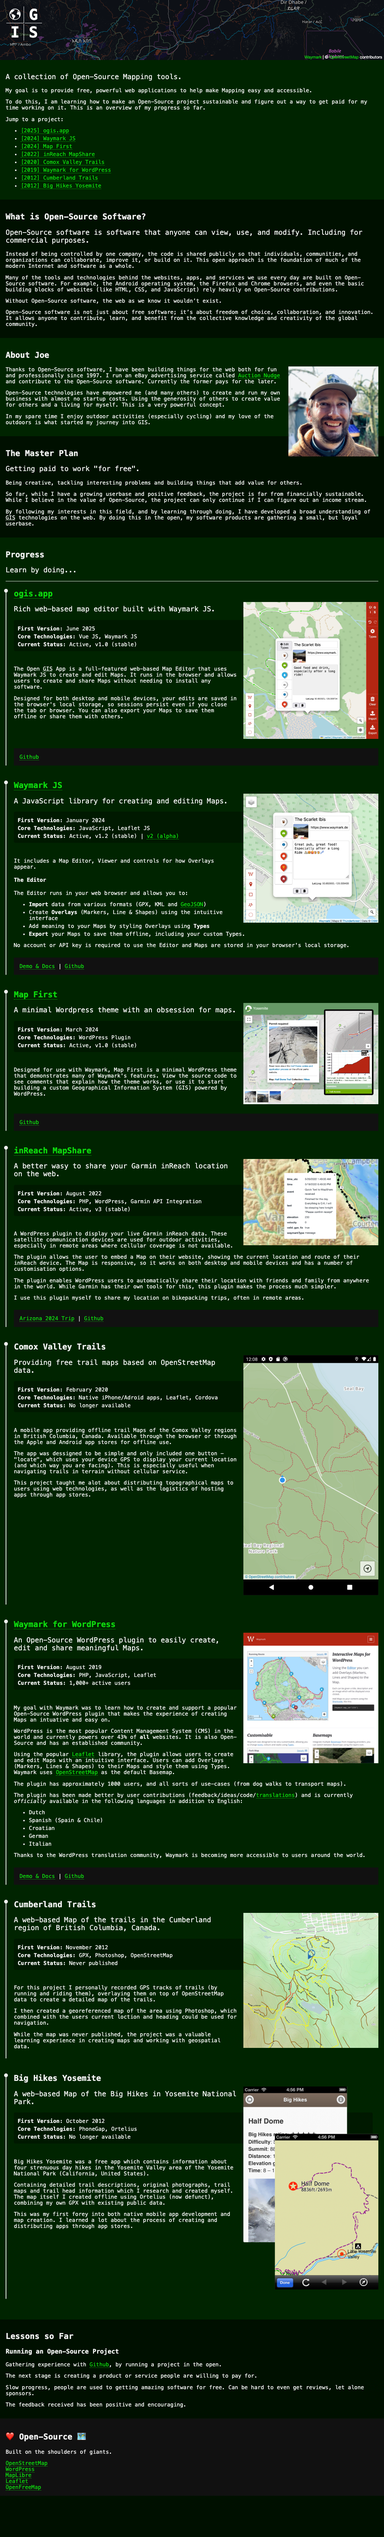
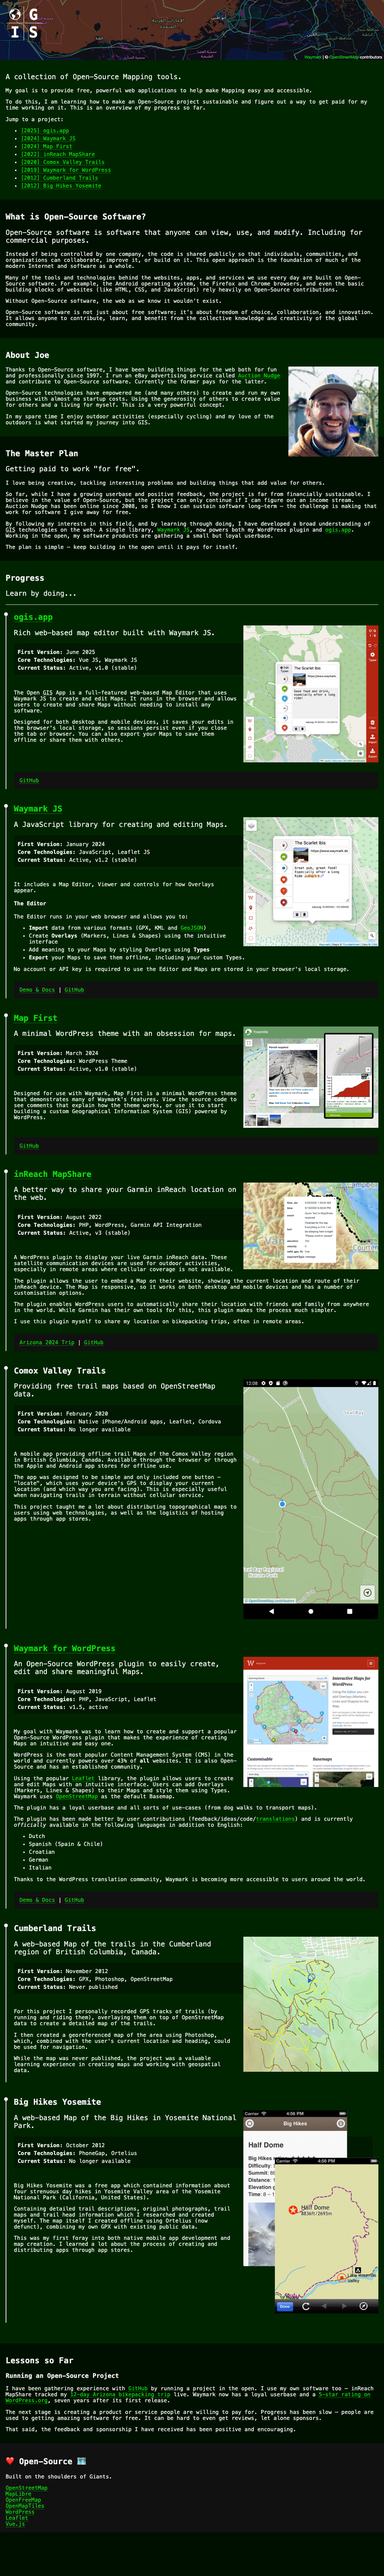
Refresh site copy and footer links
Updates profile copy with current project status and history:
- Expand sustainability discussion with Auction Nudge context
- Highlight Waymark JS as the shared library powering plugin and ogis.app
- Add personal usage anecdote (Arizona bikepacking trip)
- Replace approximate user counts with softer wording
- Restructure funding section for clearer narrative
- Add rel="nofollow" to footer links and include OpenMapTiles and Vue.js

Files changed:
- index.html
- SCREENSHOT.png

diff --git a/index.html b/index.html
@@ -169,15 +169,19 @@
             So far, while I have a growing userbase and positive feedback, the
             project is far from financially sustainable. I believe in the value
             of Open-Source, but the project can only continue if I can figure
-            out an income stream.
+            out an income stream. Auction Nudge has been online since 2008, so I
+            know I can sustain software long-term — the challenge is making that
+            work for software I give away for free.
           </p>
 
           <p>
-            By following my interests in this field, and by learning through
-            doing, I have developed a broad understanding of
+            By following my interests and by learning through doing, I have
+            developed a broad understanding of
             <abbr title="Geographic Information System">GIS</abbr> technologies
-            on the web. Working in the open, my software products are
-            gathering a small, but loyal userbase.
+            on the web. A single library,
+            <a href="https://www.ogis.org/waymark-js/">Waymark JS</a>, now
+            powers multiple projects. Working in the open, my software projects
+            are gathering a small but loyal userbase.
           </p>
         </section>
 
@@ -275,12 +279,7 @@
                     <li><b>Core Technologies:</b> JavaScript, Leaflet JS</li>
                     <li>
                       <b>Current Status:</b>
-                      <span
-                        >Active, v1.2 (stable) |
-                        <a href="https://github.com/OpenGIS/Waymark-JS/tree/v2/"
-                          >v2 (alpha)</a
-                        ></span
-                      >
+                      <span>Active, v1.2 (stable) </span>
                     </li>
                   </ul>
                 </section>
@@ -565,8 +564,8 @@
                 </p>
 
                 <p>
-                  The plugin has approximately 1000 users, and all sorts of
-                  use-cases (from dog walks to transport maps).
+                  The plugin has a loyal userbase and all sorts of use-cases
+                  (from dog walks to transport maps).
                 </p>
 
                 <p>
@@ -636,8 +635,8 @@
 
                 <p>
                   I then created a georeferenced map of the area using
-                  Photoshop, which, combined with the user's current location and
-                  heading, could be used for navigation.
+                  Photoshop, which, combined with the user's current location
+                  and heading, could be used for navigation.
                 </p>
 
                 <p>
@@ -708,36 +707,57 @@
           <p>
             I have been gathering experience with
             <a href="https://github.com/OpenGIS">GitHub</a> by running a project
-            in the open.
+            in the open. I use my own software too — inReach MapShare tracked my
+            <a href="https://www.morehawes.ca/trips/arizona-2024/"
+              >12-day Arizona bikepacking trip</a
+            >
+            live. Waymark now has a loyal userbase and a
+            <a href="https://wordpress.org/plugins/waymark/"
+              >5-star rating on WordPress.org</a
+            >, seven years after its first release.
           </p>
 
           <p>
             The next stage is creating a product or service people are willing
-            to pay for.
+            to pay for. Progress has been slow — people are used to getting
+            amazing software for free. It can be hard to even get reviews, let
+            alone sponsors.
           </p>
 
           <p>
-            Progress has been slow — people are used to getting amazing software
-            for free. It can be hard to even get reviews, let alone sponsors.
+            That said, the feedback and sponsorship I have received has been
+            positive and encouraging.
           </p>
-
-          <p>The feedback received has been positive and encouraging.</p>
         </section>
       </main>
 
       <footer>
         <h2>❤ Open-Source 🗺</h2>
 
-        <p>Built on the shoulders of giants.</p>
+        <p>Built on the shoulders of Giants.</p>
 
         <ul>
-          <li><a href="https://www.openstreetmap.org/">OpenStreetMap</a></li>
-          <li><a href="https://www.wordpress.org/">WordPress</a></li>
-          <li><a href="https://maplibre.org/">MapLibre</a></li>
-          <li><a href="https://leafletjs.com/">Leaflet</a></li>
           <li>
-            <a href="https://www.openfreemap.org/">OpenFreeMap</a>
+            <a href="https://www.openstreetmap.org/" rel="nofollow"
+              >OpenStreetMap</a
+            >
           </li>
+          <li><a href="https://maplibre.org/" rel="nofollow">MapLibre</a></li>
+          <li>
+            <a href="https://www.openfreemap.org/" rel="nofollow"
+              >OpenFreeMap</a
+            >
+          </li>
+          <li>
+            <a href="https://www.openmaptiles.org/" rel="nofollow"
+              >OpenMapTiles</a
+            >
+          </li>
+          <li>
+            <a href="https://www.wordpress.org/" rel="nofollow">WordPress</a>
+          </li>
+          <li><a href="https://leafletjs.com/" rel="nofollow">Leaflet</a></li>
+          <li><a href="https://vuejs.org/" rel="nofollow">Vue.js</a></li>
         </ul>
       </footer>
     </article>
